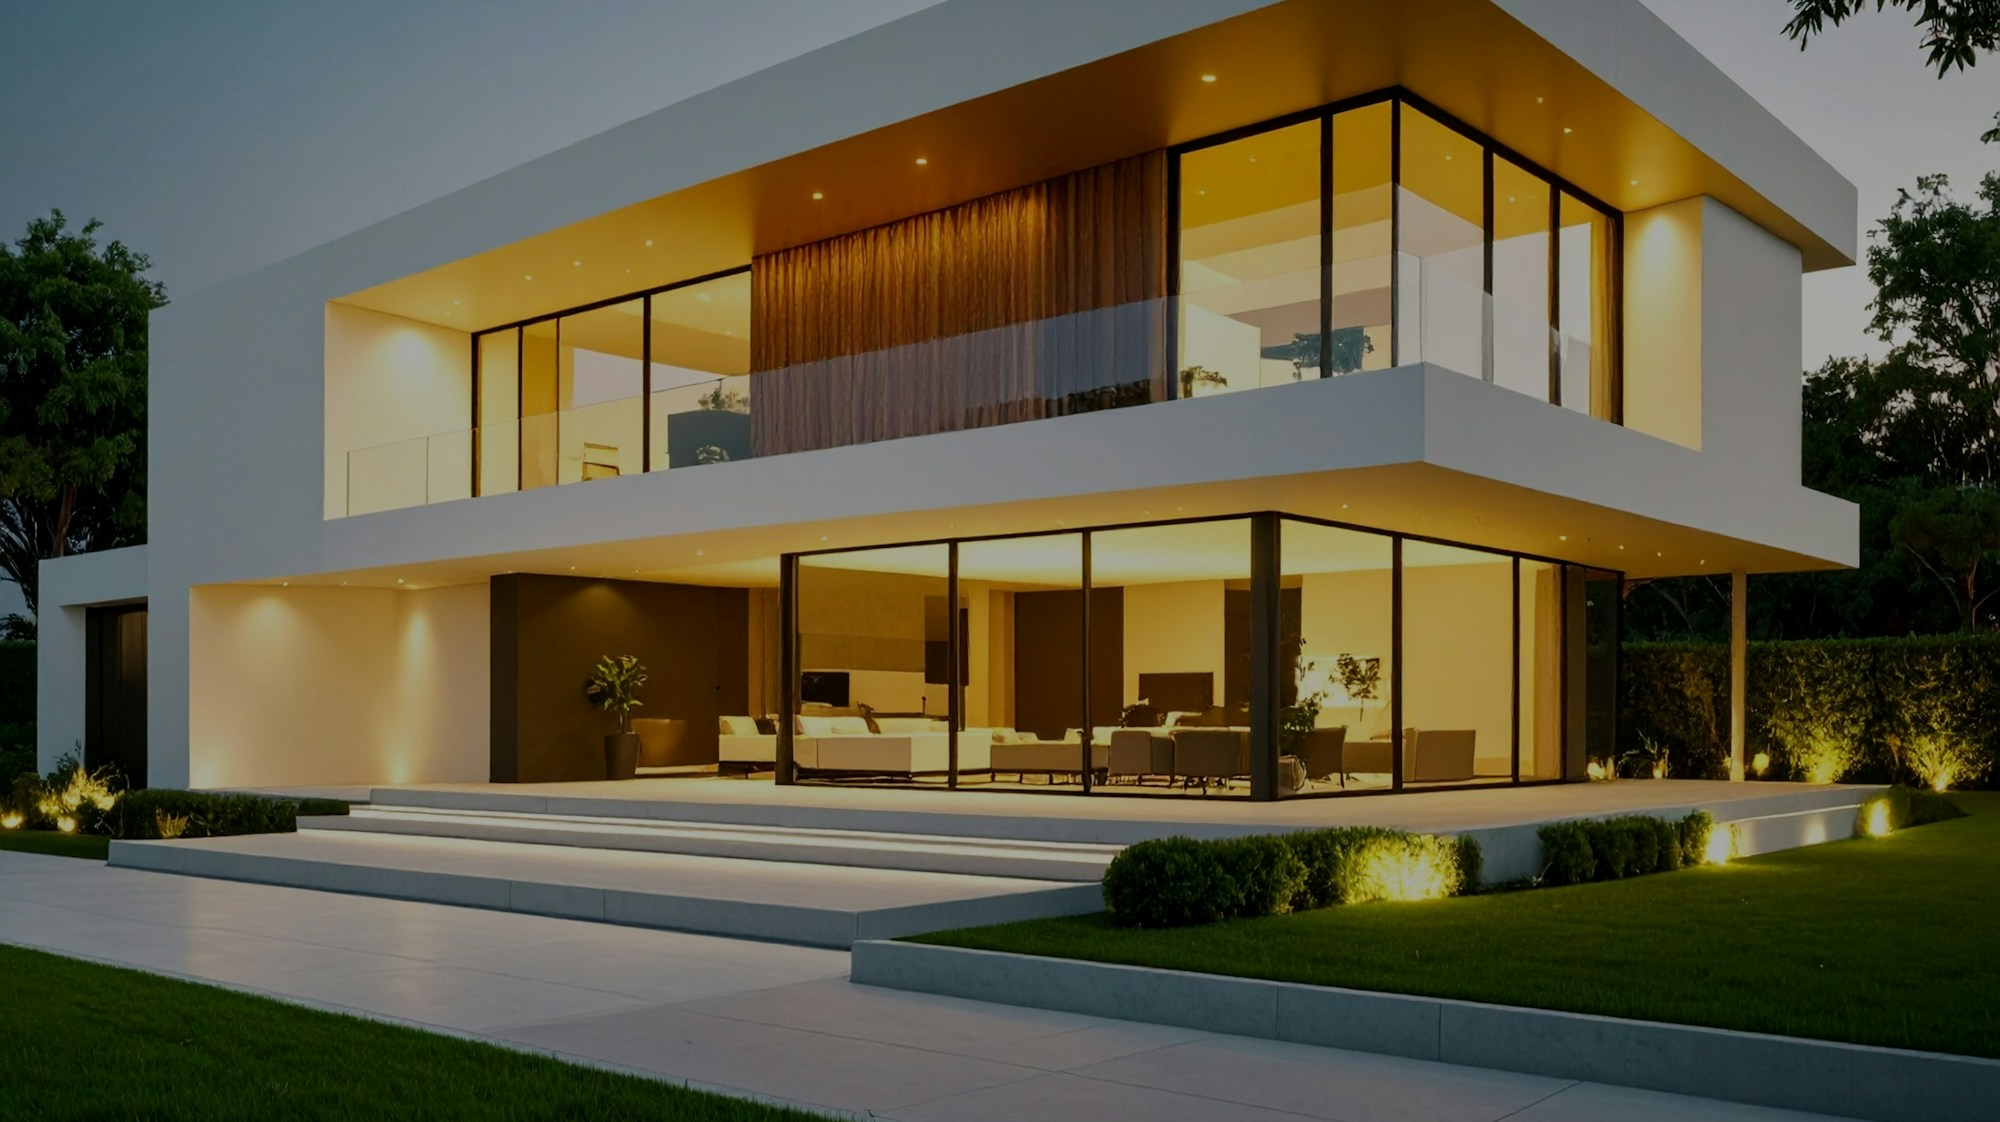
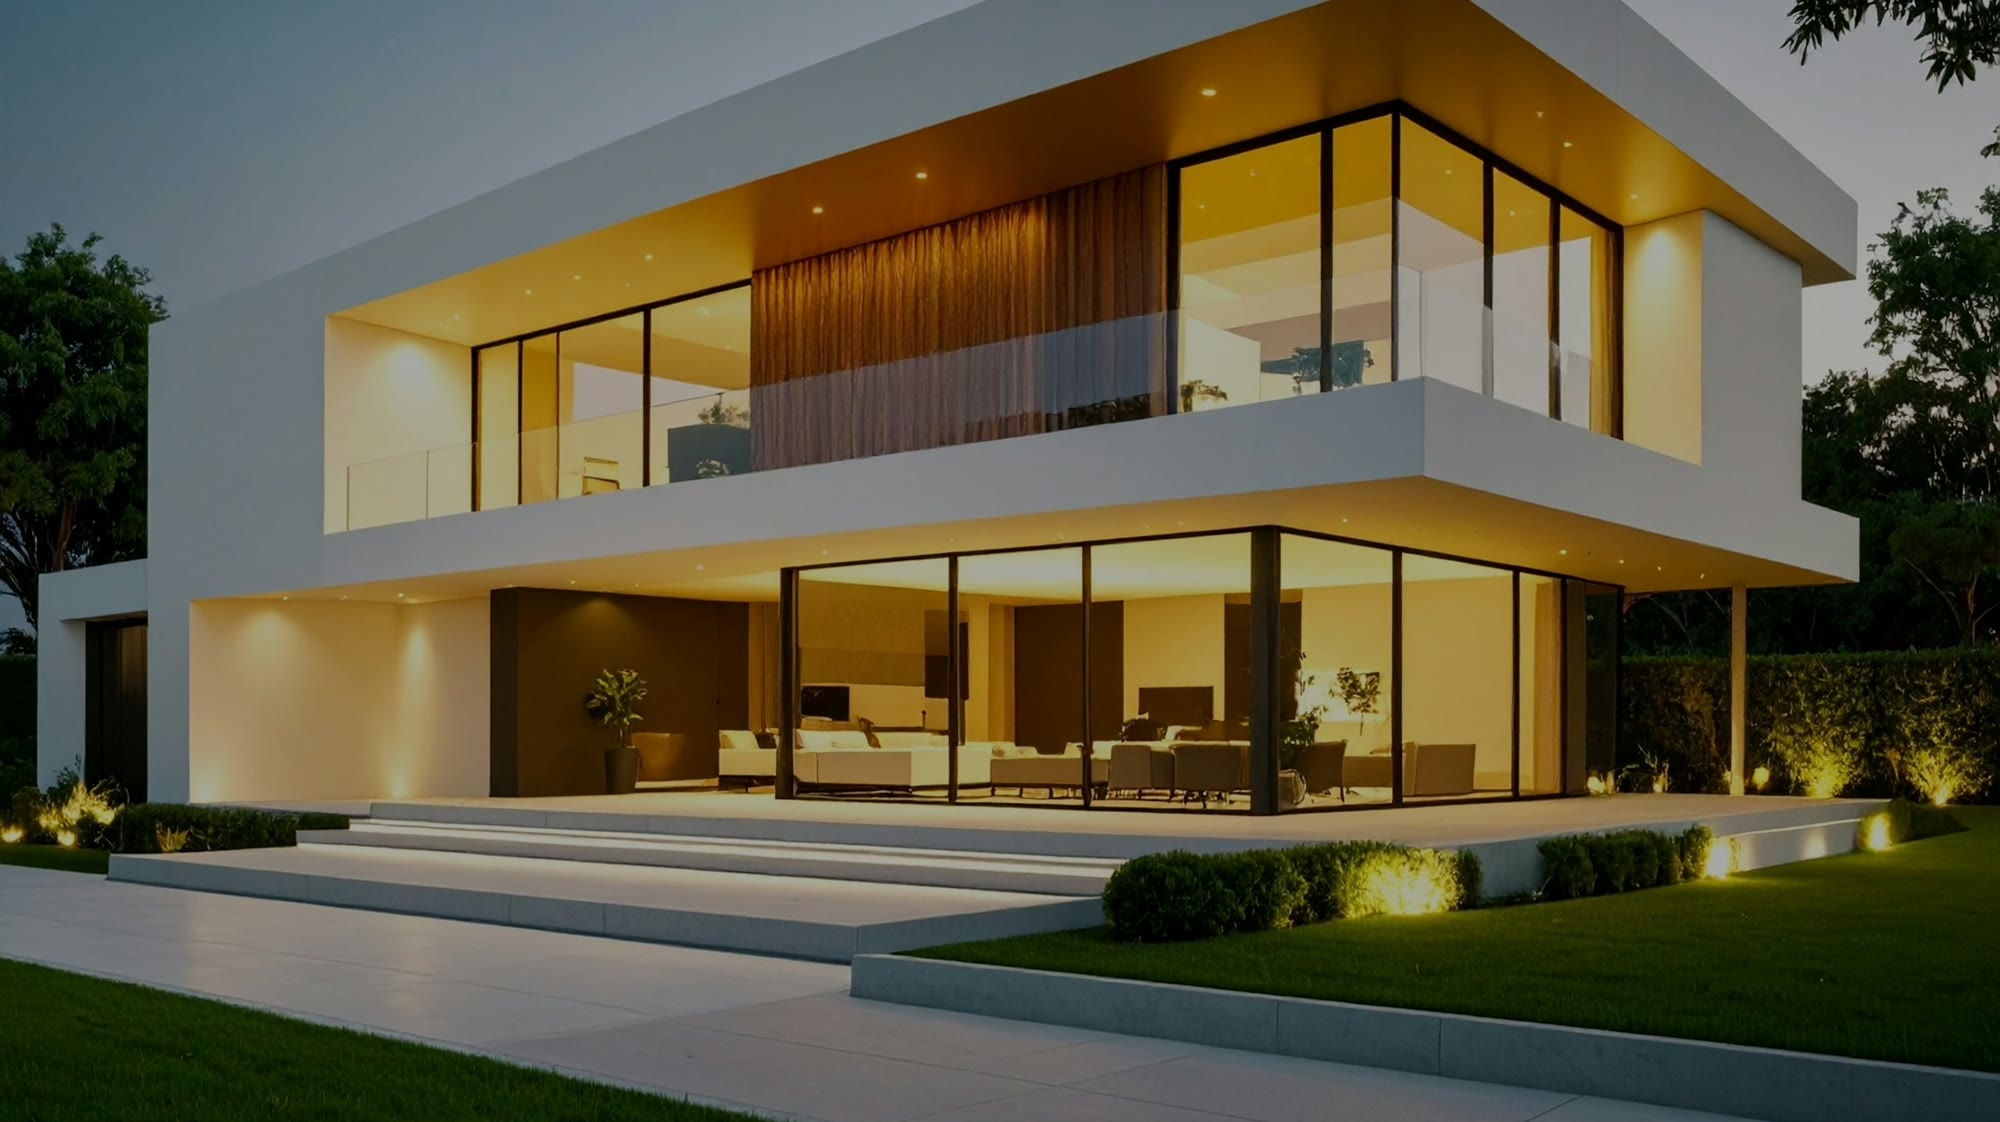
Hero swap, trust→thin divider, move MLS search up by the lead form
- Hero: replace with Hector's own "Hero image HBR.jpg" (2560×1440 → 2000/1200/
  760 crops); bump hero refs ?v=5 -> ?v=6. Keeps the cinematic Ken Burns motion.
- Trust strip: the lone "All of Central Florida & Tampa" item read oddly, so
  replace the whole navy band with a thin 12px navy divider + small gold accent
  between the hero and About. Bump style.css ?v=19.
- Move the MLS Home Search (IDX) section up to right AFTER the contact/lead-form
  section (was near the end), so buyers can jump from the form straight to live
  listings. Section, ids, and search-button wiring unchanged — launcher still
  routes to search.hectorbelenrealtor.com.

diff --git a/index.html b/index.html
@@ -57,14 +57,14 @@
 <!-- Hero image is the LCP element — preload it. The three `media` ranges MUST
      stay identical to the <source media> values on the hero <picture> below,
      or the hero gets fetched twice. -->
-<link rel="preload" as="image" href="/assets/img/hero-760.jpg?v=5"
+<link rel="preload" as="image" href="/assets/img/hero-760.jpg?v=6"
       media="(max-width: 640px)" fetchpriority="high">
-<link rel="preload" as="image" href="/assets/img/hero-1200.jpg?v=5"
+<link rel="preload" as="image" href="/assets/img/hero-1200.jpg?v=6"
       media="(min-width: 641px) and (max-width: 1280px)" fetchpriority="high">
-<link rel="preload" as="image" href="/assets/img/hero-2000.jpg?v=5"
+<link rel="preload" as="image" href="/assets/img/hero-2000.jpg?v=6"
       media="(min-width: 1281px)" fetchpriority="high">
 
-<link rel="stylesheet" href="/style.css?v=18">
+<link rel="stylesheet" href="/style.css?v=19">
 
 <!-- JS-enabled flag before first paint, so scroll-reveal only hides content
      when there's JS to reveal it again. -->
@@ -188,10 +188,10 @@
          available. Mobile file is a portrait crop. Ranges match the <head>
          preloads exactly. Motion lives in .hero-media img (style.css). -->
     <picture class="hero-media">
-      <source srcset="/assets/img/hero-760.jpg?v=5"  media="(max-width: 640px)"  width="760"  height="426">
-      <source srcset="/assets/img/hero-1200.jpg?v=5" media="(min-width: 641px) and (max-width: 1280px)" width="1200" height="673">
-      <source srcset="/assets/img/hero-2000.jpg?v=5" media="(min-width: 1281px)" width="2000" height="1122">
-      <img src="/assets/img/hero-2000.jpg?v=5"
+      <source srcset="/assets/img/hero-760.jpg?v=6"  media="(max-width: 640px)"  width="760"  height="426">
+      <source srcset="/assets/img/hero-1200.jpg?v=6" media="(min-width: 641px) and (max-width: 1280px)" width="1200" height="673">
+      <source srcset="/assets/img/hero-2000.jpg?v=6" media="(min-width: 1281px)" width="2000" height="1122">
+      <img src="/assets/img/hero-2000.jpg?v=6"
            alt="Casa moderna de dos pisos al atardecer, con grandes ventanales iluminados con luz cálida, en el Centro de Florida"
            data-en-alt="Modern two-story home at dusk with large, warmly lit glass windows in Central Florida"
            width="2000" height="1122" fetchpriority="high" decoding="async">
@@ -225,15 +225,8 @@
   <!-- ==========================================================
        2. TRUST BAR — real, verifiable credentials only.
        ========================================================== -->
-  <section class="trust" id="trust" aria-label="Credenciales y trayectoria"
-           data-en-aria-label="Credentials and track record">
-    <div class="shell trust-grid">
-      <div class="trust-item">
-        <span class="trust-num trust-word" data-en="All">Todo</span>
-        <span class="trust-label" data-en="of Central Florida &amp; Tampa">el Centro de Florida y Tampa</span>
-      </div>
-    </div>
-  </section>
+  <!-- Thin brand divider between the hero and About (replaced the old trust strip). -->
+  <div class="trust-divider" aria-hidden="true"></div>
 
 
   <!-- ==========================================================
@@ -544,6 +537,61 @@
         </div>
       </div>
 
+    </div>
+  </section>
+
+
+  <!-- ==========================================================
+       MLS HOME SEARCH (IDX) — placed right after the lead form so buyers can
+       jump straight to live listings. CONFIG.searchUrl points at Hector's Lofty
+       IDX (search.hectorbelenrealtor.com, Stellar MLS); script.js repoints every
+       "#search" button there and shows the #idxLive launcher. To take search
+       offline, set CONFIG.searchUrl = '' in script.js.
+       ========================================================== -->
+  <section class="search" id="search" aria-label="Búsqueda de casas en el MLS"
+           data-en-aria-label="Home search on the MLS">
+    <div class="shell">
+      <div class="section-head search-head">
+        <p class="eyebrow reveal" data-en="Search the MLS">Busque en el MLS</p>
+        <h2 class="reveal" data-en="Find your next home">Encuentre su próxima casa</h2>
+        <p class="section-lede reveal" data-en="Search every active listing across Central Florida and Tampa — the same up-to-the-minute MLS data agents use. Save your favorites and I'll help you see the ones worth your time.">
+          Busque entre todas las propiedades activas en el Centro de Florida y
+          Tampa — los mismos datos del MLS, al minuto, que usan los agentes.
+          Guarde sus favoritas y le ayudo a ver las que valen su tiempo.
+        </p>
+      </div>
+
+      <!-- HOME SEARCH launcher.
+           Two states, toggled by script.js based on CONFIG.searchUrl:
+             • searchUrl EMPTY  → #idxFallback shows ("being connected" card).
+             • searchUrl SET    → #idxLive shows (a launcher to the Lofty IDX
+               site) and every "Search / Buscar" button routes there too.
+           See LOFTY-SEARCH-SETUP.md. -->
+      <div class="idx-embed reveal" id="idxEmbed">
+
+        <!-- Shown until Lofty's IDX address is set in CONFIG.searchUrl. -->
+        <div class="idx-fallback" id="idxFallback">
+          <span class="idx-fallback-mark" aria-hidden="true"></span>
+          <h3 data-en="The live home search is being connected.">La búsqueda de casas en vivo se está conectando.</h3>
+          <p data-en="In the meantime, tell me what you're looking for and I'll send you matching listings personally.">
+            Mientras tanto, dígame qué está buscando y le envío propiedades que
+            coincidan, personalmente.
+          </p>
+          <a class="btn btn-gold" href="#contact" data-scroll data-en="Tell Me What You Want">Dígame Qué Busca</a>
+        </div>
+
+        <!-- Shown once CONFIG.searchUrl is set — script.js fills in the href. -->
+        <div class="idx-fallback" id="idxLive" hidden>
+          <span class="idx-fallback-mark" aria-hidden="true"></span>
+          <h3 data-en="Search every active listing across Central Florida &amp; Tampa.">Busque entre todas las propiedades activas en el Centro de Florida y Tampa.</h3>
+          <p data-en="Browse live MLS listings, save your favorites, and set up alerts for new homes that match — I'll see what you love and help you move on the ones worth it.">
+            Explore propiedades del MLS en vivo, guarde sus favoritas y reciba
+            alertas de casas nuevas que coincidan — yo veo lo que le gusta y le
+            ayudo a actuar sobre las que valen la pena.
+          </p>
+          <a class="btn btn-gold" href="#" data-en="Search Homes on the MLS">Buscar Casas en el MLS</a>
+        </div>
+      </div>
     </div>
   </section>
 
@@ -909,62 +957,6 @@
         <button class="film-nav film-next" type="button" aria-label="Más videos" data-en-aria-label="More videos">
           <span aria-hidden="true">&rsaquo;</span>
         </button>
-      </div>
-    </div>
-  </section>
-
-
-  <!-- ==========================================================
-       4c. HOME SEARCH (IDX / MLS)
-       ----------------------------------------------------------
-       LIVE as of 2026-11-03: CONFIG.searchUrl points at Hector's Lofty IDX
-       site (search.hectorbelenrealtor.com, Stellar MLS). script.js repoints
-       every "#search" button there and shows the #idxLive launcher below.
-       To take search offline again, set CONFIG.searchUrl = '' in script.js.
-       ========================================================== -->
-  <section class="search" id="search" aria-label="Búsqueda de casas en el MLS"
-           data-en-aria-label="Home search on the MLS">
-    <div class="shell">
-      <div class="section-head search-head">
-        <p class="eyebrow reveal" data-en="Search the MLS">Busque en el MLS</p>
-        <h2 class="reveal" data-en="Find your next home">Encuentre su próxima casa</h2>
-        <p class="section-lede reveal" data-en="Search every active listing across Central Florida and Tampa — the same up-to-the-minute MLS data agents use. Save your favorites and I'll help you see the ones worth your time.">
-          Busque entre todas las propiedades activas en el Centro de Florida y
-          Tampa — los mismos datos del MLS, al minuto, que usan los agentes.
-          Guarde sus favoritas y le ayudo a ver las que valen su tiempo.
-        </p>
-      </div>
-
-      <!-- HOME SEARCH launcher.
-           Two states, toggled by script.js based on CONFIG.searchUrl:
-             • searchUrl EMPTY  → #idxFallback shows ("being connected" card).
-             • searchUrl SET    → #idxLive shows (a launcher to the Lofty IDX
-               site) and every "Search / Buscar" button routes there too.
-           See LOFTY-SEARCH-SETUP.md. -->
-      <div class="idx-embed reveal" id="idxEmbed">
-
-        <!-- Shown until Lofty's IDX address is set in CONFIG.searchUrl. -->
-        <div class="idx-fallback" id="idxFallback">
-          <span class="idx-fallback-mark" aria-hidden="true"></span>
-          <h3 data-en="The live home search is being connected.">La búsqueda de casas en vivo se está conectando.</h3>
-          <p data-en="In the meantime, tell me what you're looking for and I'll send you matching listings personally.">
-            Mientras tanto, dígame qué está buscando y le envío propiedades que
-            coincidan, personalmente.
-          </p>
-          <a class="btn btn-gold" href="#contact" data-scroll data-en="Tell Me What You Want">Dígame Qué Busca</a>
-        </div>
-
-        <!-- Shown once CONFIG.searchUrl is set — script.js fills in the href. -->
-        <div class="idx-fallback" id="idxLive" hidden>
-          <span class="idx-fallback-mark" aria-hidden="true"></span>
-          <h3 data-en="Search every active listing across Central Florida &amp; Tampa.">Busque entre todas las propiedades activas en el Centro de Florida y Tampa.</h3>
-          <p data-en="Browse live MLS listings, save your favorites, and set up alerts for new homes that match — I'll see what you love and help you move on the ones worth it.">
-            Explore propiedades del MLS en vivo, guarde sus favoritas y reciba
-            alertas de casas nuevas que coincidan — yo veo lo que le gusta y le
-            ayudo a actuar sobre las que valen la pena.
-          </p>
-          <a class="btn btn-gold" href="#" data-en="Search Homes on the MLS">Buscar Casas en el MLS</a>
-        </div>
       </div>
     </div>
   </section>

diff --git a/style.css b/style.css
@@ -554,6 +554,19 @@ button { font: inherit; color: inherit; border: 0; background: none; cursor: poi
 }
 
 /* ------------------------------------------------------------- 6. Trust bar */
+/* Thin navy divider with a small gold accent — sits between hero and About. */
+.trust-divider {
+  height: 12px;
+  background: var(--navy);
+  position: relative;
+}
+.trust-divider::after {
+  content: "";
+  position: absolute; inset: 0; margin: auto;
+  width: 56px; height: 3px; border-radius: 2px;
+  background: var(--gold);
+}
+
 .trust {
   background: var(--navy);
   color: var(--cream);

diff --git a/compradores/index.html b/compradores/index.html
@@ -13,7 +13,7 @@
 <link rel="preconnect" href="https://fonts.googleapis.com">
 <link rel="preconnect" href="https://fonts.gstatic.com" crossorigin>
 <link rel="stylesheet" href="https://fonts.googleapis.com/css2?family=Cormorant+Garamond:ital,wght@0,400;0,500;0,600;1,400&family=Jost:wght@300;400;500&display=swap">
-<link rel="stylesheet" href="/style.css?v=18">
+<link rel="stylesheet" href="/style.css?v=19">
 <script>document.documentElement.classList.add('js');</script>
 </head>
 <body>

diff --git a/rentas/index.html b/rentas/index.html
@@ -13,7 +13,7 @@
 <link rel="preconnect" href="https://fonts.googleapis.com">
 <link rel="preconnect" href="https://fonts.gstatic.com" crossorigin>
 <link rel="stylesheet" href="https://fonts.googleapis.com/css2?family=Cormorant+Garamond:ital,wght@0,400;0,500;0,600;1,400&family=Jost:wght@300;400;500&display=swap">
-<link rel="stylesheet" href="/style.css?v=18">
+<link rel="stylesheet" href="/style.css?v=19">
 <script>document.documentElement.classList.add('js');</script>
 </head>
 <body>

diff --git a/valuacion-gratis/index.html b/valuacion-gratis/index.html
@@ -13,7 +13,7 @@
 <link rel="preconnect" href="https://fonts.googleapis.com">
 <link rel="preconnect" href="https://fonts.gstatic.com" crossorigin>
 <link rel="stylesheet" href="https://fonts.googleapis.com/css2?family=Cormorant+Garamond:ital,wght@0,400;0,500;0,600;1,400&family=Jost:wght@300;400;500&display=swap">
-<link rel="stylesheet" href="/style.css?v=18">
+<link rel="stylesheet" href="/style.css?v=19">
 <script>document.documentElement.classList.add('js');</script>
 </head>
 <body>

diff --git a/vendedores/index.html b/vendedores/index.html
@@ -13,7 +13,7 @@
 <link rel="preconnect" href="https://fonts.googleapis.com">
 <link rel="preconnect" href="https://fonts.gstatic.com" crossorigin>
 <link rel="stylesheet" href="https://fonts.googleapis.com/css2?family=Cormorant+Garamond:ital,wght@0,400;0,500;0,600;1,400&family=Jost:wght@300;400;500&display=swap">
-<link rel="stylesheet" href="/style.css?v=18">
+<link rel="stylesheet" href="/style.css?v=19">
 <script>document.documentElement.classList.add('js');</script>
 </head>
 <body>
